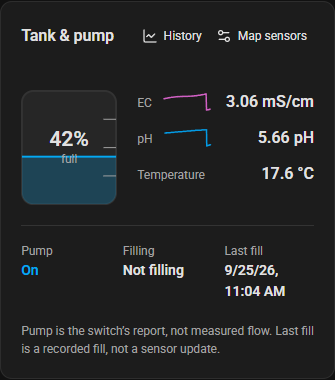
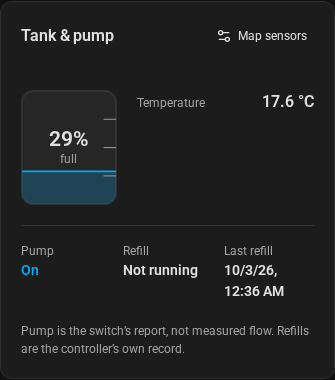
docs: the tank card's refills need no mapping

diff --git a/docs/USER_GUIDE.md b/docs/USER_GUIDE.md
@@ -57,19 +57,15 @@ To move a zone to another phase, open it from **Overview** and pick one under **
 
 Choose **Map sensors** on the tank panel, or open **Settings → Rooms & hardware → Shared room hardware**. These are explicit mappings; the dashboard does not guess that a room-temperature probe is a tank probe.
 
-| Setup label             | Configuration key         | Select                                                                                                                |
-| ----------------------- | ------------------------- | --------------------------------------------------------------------------------------------------------------------- |
-| Room pump               | `pump_switch`             | The room pump's actual HA switch. The controller descriptor publishes this as `pump`.                                 |
-| Tank fill level (%)     | `water_level_sensor`      | A percentage sensor, 0-100. A litres value is not a percentage.                                                       |
-| Tank temperature        | `tank_temperature_sensor` | A tank-water temperature sensor in °C, °F or K; its unit is retained.                                                 |
-| Tank filling status     | `tank_fill_entity`        | A fill-valve switch or binary sensor whose on/off state represents fill activity.                                     |
-| Last recorded tank fill | `tank_last_fill_sensor`   | A timestamp sensor with a dated, timezone-aware state, or an `input_datetime` helper with both date and time enabled. |
+| Setup label         | Configuration key         | Select                                                                                |
+| ------------------- | ------------------------- | ------------------------------------------------------------------------------------- |
+| Room pump           | `pump_switch`             | The room pump's actual HA switch. The controller descriptor publishes this as `pump`. |
+| Tank fill level (%) | `water_level_sensor`      | A percentage sensor, 0-100. A litres value is not a percentage.                       |
+| Tank temperature    | `tank_temperature_sensor` | A tank-water temperature sensor in °C, °F or K; its unit is retained.                 |
 
-**Tank EC (display)** and **Tank pH (display)** only populate the panel. **Feed-water EC** and **Feed-water pH** are separate mappings used by configured control gates. Mapping a tank display does not enable those gates or nutrient dosing.
+**Refill** and **Last refill** are the controller's own record of the refills it runs for the room's reservoir (**Feed → Reservoir**), so there is nothing to map for them: what its refill is doing now (not running, filling, dosing, mixing) and when the last one ended, marked *stopped* if it stopped part-way. A room without a reservoir has neither row; they read **Unavailable** until the controller app has reported for the room.
 
-**Last recorded fill** has the meaning supplied by your existing recording automation: for example, a verified full-float event or an operator's explicit “mark filled” action. A full date/time helper uses its timestamp attribute; a sensor's `last_changed`, an automation's `last_triggered`, a fill-mode enable flag and a dosing interlock are not equivalent to a fill record. The panel does not create a fill-recording automation for you.
-
-Use your own installation's recording source. Some systems record an operator confirmation; others record a full-float event or the end of a fill/dose workflow. The label intentionally says **recorded fill** because those meanings differ. A percentage source may itself be an estimate; drawing it as a tank does not turn it into a measured level. Tank readings and switch reports do not prove dose completion, water quality suitability or physical delivery.
+A percentage source may itself be an estimate; drawing it as a tank does not turn it into a measured level. Tank readings and switch reports do not prove dose completion, water quality suitability or physical delivery.
 
 Unmapped inputs show **Not mapped**; invalid readings show **Unavailable**, **Check units** or **Out of range**. An unknown pump is not shown as off and an unknown tank is not drawn empty. When disconnected, the panel identifies retained readings as last received.
 

diff --git a/CHANGELOG.md b/CHANGELOG.md
@@ -9,6 +9,35 @@ notes**, the entity- and code-level detail for developers and AI agents working 
 The format is based on [Keep a Changelog](https://keepachangelog.com/en/1.0.0/),
 and this project adheres to [Semantic Versioning](https://semver.org/spec/v2.0.0.html).
 
+## [Unreleased]
+
+### 🌱 In plain English
+
+- **The tank card's refills come from the controller.** The Overview's Tank & pump card showed
+  "Filling" and "Last fill" only from two Home Assistant sensors you had to map, so most rooms read
+  "Not mapped" there. It now shows the controller's own record of the reservoir refills it runs:
+  **Refill** says what the refill is doing now (not running, filling, dosing, mixing), and **Last
+  refill** when the last one ended, and whether it stopped part-way. A room without a reservoir has
+  neither row. The two mappings are gone from Rooms & hardware and from Configure.
+
+### 🔧 Technical notes
+
+- Integration: `tank_fill_entity` and `tank_last_fill_sensor` are removed from the setup API
+  (`HARDWARE_DOMAINS`, `HARDWARE_WORDS`, the last-fill timestamp check), the wizard and Configure
+  (`_hardware_schema`, `_build_hardware`, strings) and the room descriptor (`build_engine_config`).
+  Setup candidates no longer list `binary_sensor` and `input_datetime` entities, which only those two
+  used. A value an older setup stored stays in its config entry, unread; the controller's setup
+  fingerprint never read either.
+- Dashboard: the tank card's **Refill** and **Last refill** read
+  `sensor.crop_steering_<prefix>batch_status` (its step, and `last.at` and `last.result`), for a
+  room with a reservoir mapped or a batch status reported; "Unavailable" until the controller
+  reports. The demo drops its two fill entities. Two code comments that still described 2.32.0's
+  10-minute level rule are corrected.
+- Docs: the user guide's tank section (and its paragraph on the tank and feed EC/pH mappings that
+  2.26.0 removed), the install guide, and the screenshot.
+- Tests: the lean setup and Configure tests drop the two mappings; the tank telemetry tests and the
+  tank browser check cover the refill rows, and that a room without a reservoir has none.
+
 ## [2.32.2] - 2026-10-03
 
 Integration and controller **2.32.2**.

diff --git a/docs/INSTALL.md b/docs/INSTALL.md
@@ -84,7 +84,7 @@ The existing app slug `f2_control` and entity IDs are deliberately stable. A roo
 
 ## Optional tank display mappings
 
-In **Settings → Rooms & hardware → Shared room hardware**, map tank fill level to a percentage sensor and tank temperature to a temperature sensor. Choose a fill valve or binary sensor for filling status and a timestamp sensor or full date-and-time helper for **Last recorded tank fill**. Use an actual recorded fill event; an automation trigger time or sensor `last_changed` is not proof of filling. Shared tanks can be explicitly mapped to more than one room. The [tank mapping table](USER_GUIDE.md#tank-and-pump-display) lists the exact labels and configuration keys. A recorded fill can be operator-confirmed or float-confirmed according to its producer; it is not proof that dosing finished. Filling status must represent the fill valve or a genuine fill-active signal, not a mode-enable or dosing-lock helper.
+In **Settings → Rooms & hardware → Shared room hardware**, map tank fill level to a percentage sensor and tank temperature to a temperature sensor. Shared tanks can be explicitly mapped to more than one room. The [tank mapping table](USER_GUIDE.md#tank-and-pump-display) lists the exact labels and configuration keys. The tank card's **Refill** and **Last refill** need no mapping: they are the controller's own record of the refills it runs for a room's reservoir (**Feed → Reservoir**).
 
 Save setup with the affected engines and irrigation equipment off, then verify the readings in **Overview** before restoring the previous engine state. Missing mappings remain labelled; an unavailable pump is never displayed as off. Existing controllers must be updated to publish irrigation timestamps with a timezone offset.
 

diff --git a/custom_components/crop_steering/WHATS_NEW.md b/custom_components/crop_steering/WHATS_NEW.md
@@ -21,6 +21,10 @@ people who build the system:
 `tests/test_whats_new.py` checks the shape and the plain words, and that the newest section is the
 version being released.
 
+## Unreleased
+
+- The Tank & pump card shows the reservoir's refill and when it last refilled, straight from the controller, with nothing to map.
+
 ## 2.32.2 - 2026-10-03
 
 - The reservoir level reads while the reservoir holds still, however long.

diff --git a/docs/SCREENSHOTS.md b/docs/SCREENSHOTS.md
@@ -8,7 +8,7 @@ Captured in September 2026 from the compiled application with isolated demo data
 
 ## Tank and pump
 
-![Graphical tank level, pump/fill reports and water-quality readings](../img/tank-status.png)
+![Graphical tank level, its temperature, the pump, and the controller's refills](../img/tank-status.png)
 
 ## Insights: water use per zone
 

diff --git a/addons/f2_control/CHANGELOG.md b/addons/f2_control/CHANGELOG.md
@@ -1,3 +1,7 @@
+# Unreleased
+
+- **The dashboard the app serves:** the tank card's Refill and Last refill are the controller's own record of the refills it runs (`batch_status`), not two mapped sensors. No change to the controller.
+
 # 2.32.2
 
 Pair with integration 2.32.2.
